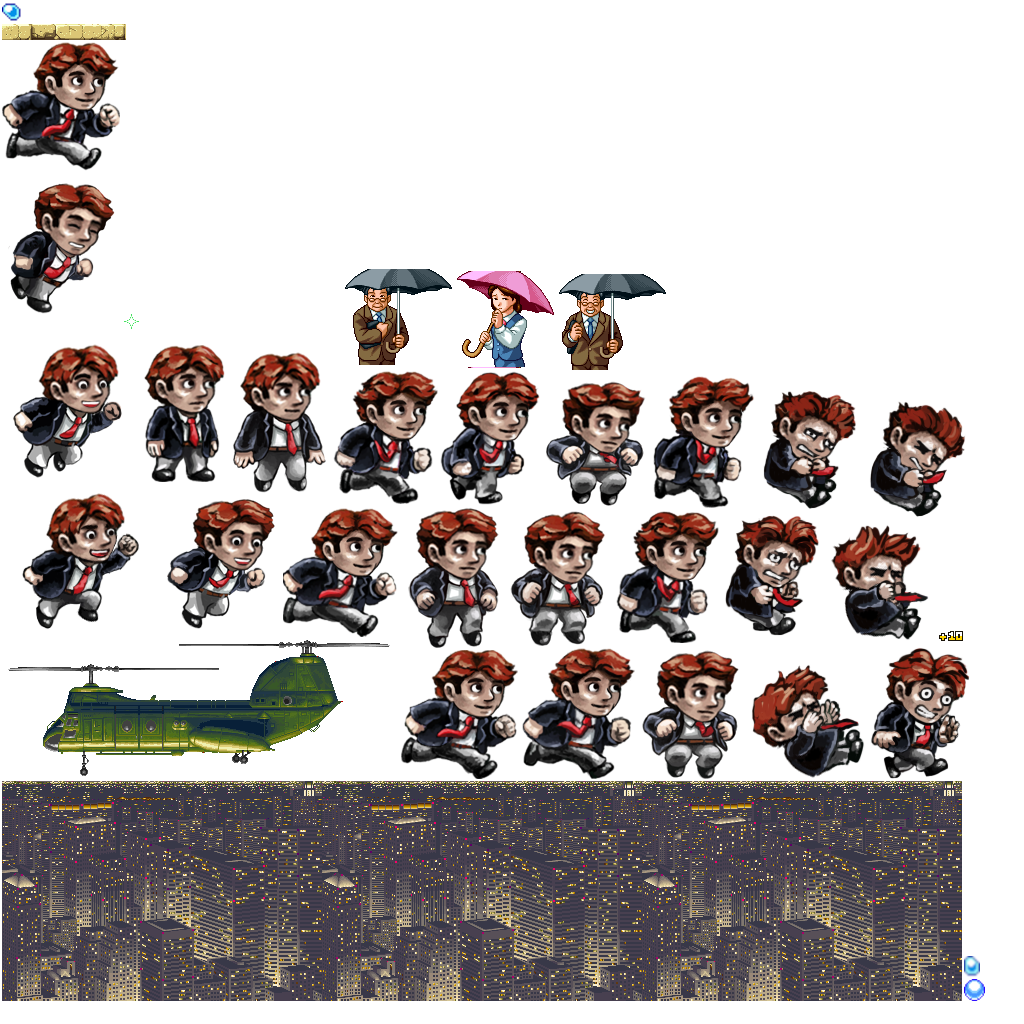
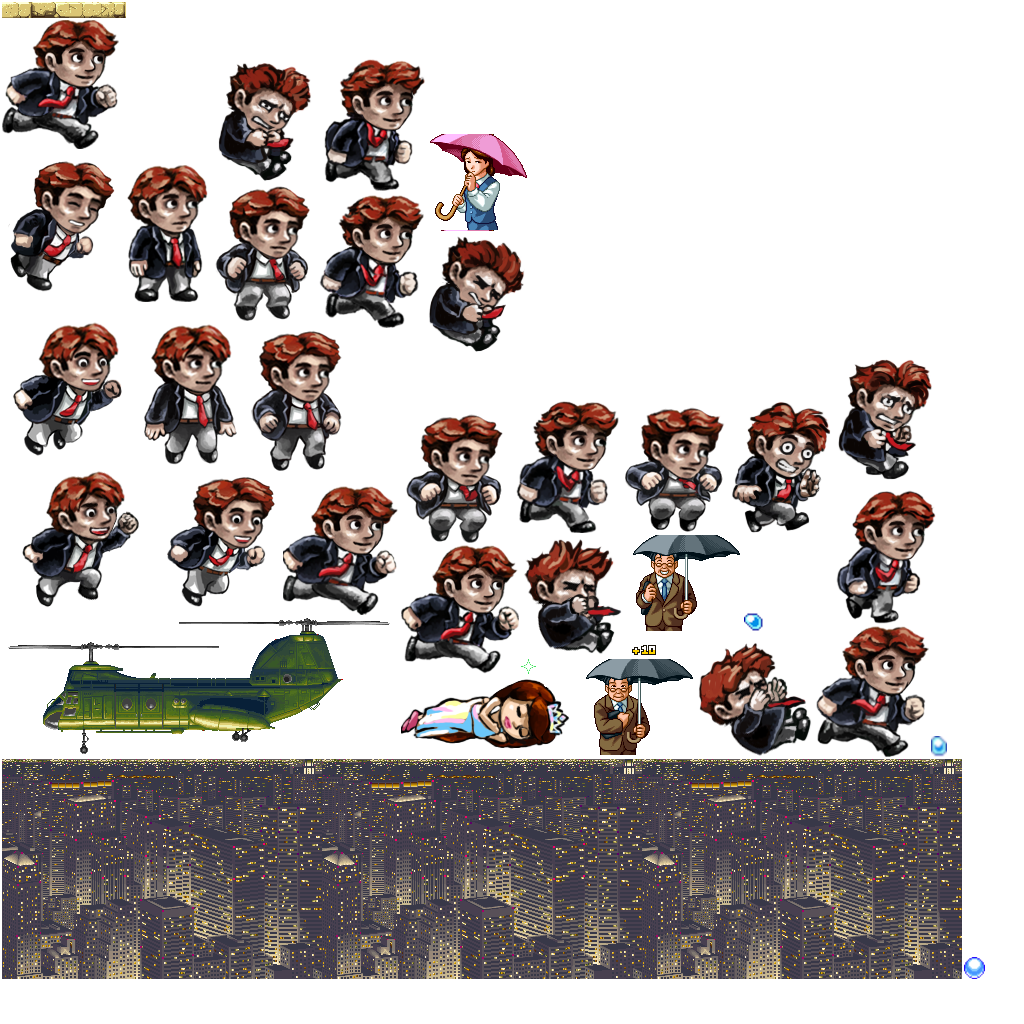
Added the princess to the game

diff --git a/core/src/com/mygdx/game/Level.java b/core/src/com/mygdx/game/Level.java
@@ -8,6 +8,7 @@ import com.mygdx.objects.City;
 import com.mygdx.objects.People;
 import com.mygdx.objects.Platform;
 import com.mygdx.objects.Points;
+import com.mygdx.objects.Princess;
 import com.mygdx.objects.Star;
 import com.mygdx.objects.Timmy;
 import com.mygdx.objects.Ability;
@@ -35,7 +36,8 @@ public class Level
 		PLATFORMS(0, 255, 0), // platforms are green
 		PLAYER_SPAWNPOINT(255, 255, 255), // player spawn point is white
 		POWERUP(255, 0, 255), // star location is purple
-		ITEMS(255, 255, 0); // collectible game points are yellow
+		ITEMS(255, 255, 0), // collectible game points are yellow
+		GOAL(255,0,0); 
 		 
 		//store decimal value of each game object's associated color  
 		private int color;
@@ -81,7 +83,8 @@ public class Level
 	public Array<Star> enhancement;
 	public People people;
 	public City background;
-	public Ability ability; 
+	public Ability ability;
+	public Princess goal; 
 	 
 	
 
@@ -166,7 +169,17 @@ public class Level
 					obj.position.set(pixelX, baseHeight * obj.dimension.y +
 							offsetHeight);
 					tim = (Timmy)obj;
-				}		
+				}
+				else if (BLOCK_TYPE.GOAL.sameColor(currentPixel))
+				{
+					obj = new Princess();
+					offsetHeight = -7.7f;
+					obj.position.set(pixelX, baseHeight * obj.dimension.y +
+							offsetHeight);
+					obj.createBody(obj.position);
+					goal = (Princess)obj; 
+					
+				}
 				// Adds feathers to the map
 				else if (BLOCK_TYPE.POWERUP.sameColor(currentPixel)) 
 				{
@@ -242,6 +255,7 @@ public class Level
 	public void render (SpriteBatch batch)
 	{
 		
+		goal.render(batch); 
 		
 		// Draw Platform
 		for (Platform plat : platforms)

diff --git a/core/src/com/mygdx/objects/Princess.java b/core/src/com/mygdx/objects/Princess.java
@@ -1,0 +1,44 @@
+package com.mygdx.objects;
+
+import com.badlogic.gdx.graphics.g2d.SpriteBatch;
+import com.badlogic.gdx.graphics.g2d.TextureRegion;
+import com.badlogic.gdx.math.Vector2;
+import com.mygdx.game.Assets;
+
+public class Princess extends AbstractGameObject 
+{
+	private TextureRegion goal; 
+
+	public Princess()
+	{
+		init(); 
+	}
+	
+	private void init() 
+	{
+		dimension.set(1f, 1f); 
+		goal= Assets.instance.leveldecoration.prince; 
+		origin.set(0, 0);
+	}
+
+	@Override
+	public void createBody(Vector2 position) 
+	{
+		
+		
+	}
+
+	@Override
+	public void render(SpriteBatch batch) 
+	{
+		 TextureRegion reg = null;
+	      reg = goal;  
+	      batch.draw(reg.getTexture(), position.x, position.y,
+	    		  origin.x, origin.y, dimension.x, dimension.y, scale.x, scale.y,
+	    		  rotation, reg.getRegionX(), reg.getRegionY(),
+	    		  reg.getRegionWidth(), reg.getRegionHeight(), false, false);
+		
+		
+	}
+
+}

diff --git a/core/src/com/mygdx/game/Assets.java b/core/src/com/mygdx/game/Assets.java
@@ -248,7 +248,8 @@ public class Assets implements Disposable, AssetErrorListener
     	public final AtlasRegion chopper;
     	public final AtlasRegion city;
     	public final AtlasRegion woman1;
-    	public final AtlasRegion bar; 
+    	public final AtlasRegion bar;
+    	public final AtlasRegion prince; 
     	
     	public AssetLevelDecoration (TextureAtlas atlas)
     	{
@@ -256,6 +257,7 @@ public class Assets implements Disposable, AssetErrorListener
     		chopper = atlas.findRegion("chopper");
     		city = atlas.findRegion("city_background");
     		woman1 = atlas.findRegion("woman_rain");
+    		prince = atlas.findRegion("Princess"); 
     	}
     }
     
